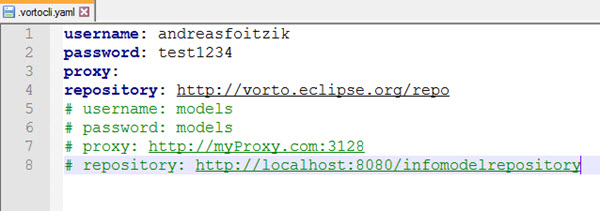
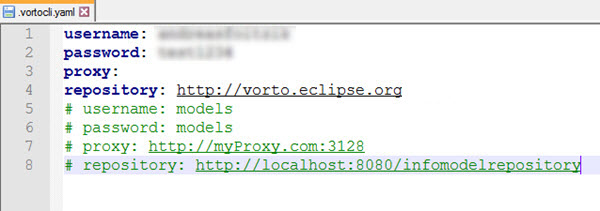
Vorto Features Overview. Fixes #315

Changed region(s): [[0.24, 0.1137, 0.48, 0.2844], [0.66, 0.3981, 0.75, 0.4834]]

diff --git a/website/documentation/overview/introduction.md b/website/documentation/overview/introduction.md
@@ -11,11 +11,11 @@ This section details the following topics:
 
 [Overview](#overview)
 
-[Features](#features)
+[Features](./features.html)
 
-[Significant Contribution](#significant-contribution)
+[Significant Contribution](./contribution.html)
 
-[System Requirements](#system-requirements)
+[System Requirements](./system-requirements.html)
 
 ## Overview
 
@@ -26,85 +26,3 @@ Standardization organizations and industry consortia work hard on device abstrac
 The Vorto project is an approach to leverage the standardization of so called Information Models. Information models are abstract representations of real world devices following a meta information model which is also part of the project. The meta information model shall be very flexible and easy to use. In addition, the project scope includes an eclipse based toolset that allows for creating information models, a repository for finding, managing and sharing information models, and last but not least a set of code generators that allow for the creation of information model based code artifacts to be employed in specific solutions.
 
 ![More about Vorto]({{base}}/img/documentation/vorto_eclipse_overview_L.png)
-
-
-## Features
-
-Vorto allows the user to create the following:
-
-**Datatypes**  
-Vorto provides a facility to create a new data type (Entity or Enum). You can use auto-completion and validation to update data types.
-
-**Function block model**  
-Vorto provides a facility to create a function block model project containing all necessary resources.
-
-**Information model**  
-Information models represent the capabilities of a particular type of device in its entirety. An information model contains one or more function blocks. Vorto allows to create an information model project and all required resources.
-
-**Mapping model**  
-Vorto provides a facility to create a mapping model from existing Datatype, Function block, or Information models.
-
-**Generate code**  
-Vorto provides a facility to create information model based code artifacts which you can use in specific solutions by choosing a suitable generator from the list of existing generators or allows the user to implement/create his own code generator
-
-**DSL editors**  
-The new Domain-specific Language (DSL) is a simple way to define and read datatype models, function block models and information models without the need to understand XML, XSD or even Java. On-the-fly auto-completion and validation lets you create the named models even faster than ever.
-
-* _Datatype model DSL editor:_
-
-![Datatype model DSL editor]({{base}}/img/documentation/m2m_tc_datatype_model_dsl_editor.png)
-
-* _Function block model DSL editor:_
-
-![Function block model DSL editor]({{base}}/img/documentation/m2m_tc_function_block_model_dsl_editor.png)
-
-* _Information model DSL editor:_
-
-![Information model DSL editor]({{base}}/img/documentation/m2m_tc_information_model_dsl_editor.png)
-
-* _Mapping model DSL editor:_
-
-Vorto provides Mapping DSL editor for user to create customized mapping that map a vorto model to another platform model.
-
-**Vorto perspective**  
-The Vorto perspective as a new Eclipse perspective simplifies the view and, thus, the work with the more abstract models.
-
-![Vorto Perspective]({{base}}/img/documentation/m2m_tc_vorto_perspective.png)
-
-
-**Example code generators**  
-Vorto provides several code generators, so that the user can generate code based on the select information model. Vorto also provides a code generator extension point, so that the user can create his own code generator.
-
-![Generating function block model]({{base}}/img/documentation/m2m_vorto_code_generator_menu.png)
-
-## Significant Contribution
-
-The Vorto project considers the following contributions as significant contribution:
-
-- Giving technical input to the Vorto Meta Information Model that leads to an update of the current ecore model.
-- Giving input to the project that leads to a high prioritized bug in [Github Issues](https://github.com/eclipse/vorto/issues).
-- Implementing and contributing a new Vorto code generator to the project.
-- Fixing a bug that is considered as critical.
-- Implementing a complex feature.
-
- If you satisfy our requirements for significant contribution, email your logo to <strong><mailto:vorto-dev@eclipse.org></strong> to get added to our homepage.
-
-## System Requirements
-
-For the use of the Vorto Toolset the following software requirements must be met:
-
-- Eclipse
-  - [Eclipse IDE for Java and DSL Developers](http://www.eclipse.org/downloads/packages/eclipse-ide-java-and-dsl-developers/mars2) (Mars or higher)  
-    or
-  - [Eclipse IDE](http://www.eclipse.org/downloads/packages/release/Mars/2) (Mars or higher)
-  - [Xtext](http://download.eclipse.org/modeling/tmf/xtext/updates/composite/releases/) 2.9.x (or higher)
-- [Java 8](http://www.oracle.com/technetwork/java/javase/downloads/)
-
-<table class="table table-bordered">
-<tbody>
-  <tr>
-    <td><i class="fa fa-info-circle info-note"></td>
-    <td>Validity period will endure at the most as long as the version of infrastructure software of third party manufacturers defined in this document (Operating Systems, Java, etc.) is publicly and officially supported. We support the most recent patch releases of the respective software product version.</td>
-  </tr>
- </tbody>
-</table>

diff --git a/website/documentation/vorto-repository/cli-tool/cli-tool.md b/website/documentation/vorto-repository/cli-tool/cli-tool.md
@@ -23,7 +23,7 @@ Vorto Command Line Interface (CLI) tool is REST-Client that allows you, to acces
 
 The CLI-Tool is based on a simple structure.
 
-It consists of a Command Line Interface as well as a **.yaml** file, that stores all necessary configuration properties like _Username_, _Password_, _Proxy_ and _Repository_.
+It consists of a Command Line Interface as well as a `.yaml` file, that stores all necessary configuration properties like _Username_, _Password_, _Proxy_ and _Repository_.
 
 ## Installation
 
@@ -33,15 +33,17 @@ A very convenient way to use the CLI Tool is, to add the path of the directory i
 
 ![Environment Variable]({{base}}/img/documentation/cli_evnmt_variable.jpg)
 
-Before you can use the CLI Tool as a REST Client, you need to initialize basic preferences. The preferences are stored in a `C:\Users\{$username}\.vortocli.yaml.file`, which is located in your home directory.
+Before you can use the CLI Tool as a REST Client, you need to initialize basic preferences. The preferences are stored in the file `.vortocli.yaml`, which is located in your home directory (in Windows, for example: `C:\Users\{$username}\`).
 
-You have to setup vorto via **vorto config**. If you want to initialize vorto with additional values (or change them afterwards) like _-username_, _-password_, _-proxy_ and _-repo_, then you can extend the **vorto config** command with four additional flag parameters _-username_, _-password_, _-proxy_ and _-repo_, or you can edit the _.vortocli.yaml_ file via text editor. 
+You have to setup vorto in one of the following ways:
 
-	vorto config -username andreas -password test1234 -repo http://vorto.eclipse.org/repo
+* Use the **vorto config** command.  
+  To initialize vorto with additional values (or change them afterwards) like username, password, proxy or repository, use the command flags `-username`, `-password`, `-proxy` or `-repo`.  
+  Example: `vorto config -username <username> -password <password> -repo http://vorto.eclipse.org`
+* Edit the `.vortocli.yaml` file with a text editor.  
+  ![CLI Yaml file]({{base}}/img/documentation/yamlfile.jpg)
 
 Congratulations! - Setup is done and you are now able to use the Vorto CLI Tool.
-
-![CLI Yaml file]({{base}}/img/documentation/yamlfile.jpg)
 
 
 ## CLI Commands

diff --git a/website/documentation/overview/system-requirements.md b/website/documentation/overview/system-requirements.md
@@ -1,0 +1,56 @@
+---
+layout: documentation
+title: System Requirements
+---
+
+{% include base.html %}
+
+
+## System Requirements
+
+For the use of the Vorto Toolset the following software requirements must be met:
+
+- Eclipse
+  - [Eclipse IDE for Java and DSL Developers](http://www.eclipse.org/downloads/packages/eclipse-ide-java-and-dsl-developers/mars2) (Mars or higher)  
+    or
+  - [Eclipse IDE](http://www.eclipse.org/downloads/packages/release/Mars/2) (Mars or higher)
+  - [Xtext](http://download.eclipse.org/modeling/tmf/xtext/updates/composite/releases/) 2.9.x (or higher)
+- [Java 8](http://www.oracle.com/technetwork/java/javase/downloads/)
+
+<table class="table table-bordered">
+<tbody>
+  <tr>
+    <td><i class="fa fa-info-circle info-note"></td>
+    <td>To avoid using a wrong Java version, you can set the required Java version as a preference in the <code>eclipse.ini</code> file:
+    <code><br />
+      -vmargs<br />
+      -Dosgi.requiredJavaVersion=1.8<br />
+      ...
+    </code></td>
+  </tr>
+ </tbody>
+</table>
+
+<table class="table table-bordered">
+<tbody>
+  <tr>
+    <td><i class="fa fa-info-circle info-note"></td>
+    <td>Your operating system, Java installation and Eclipse installation must <strong>all</strong> have either 32bit or 64bit architecture!<br />
+    If necessary, you can align the path to the correct Java version as a preference in the <code>eclipse.ini</code> file, e.g.:
+    <code><br />
+      -vm<br />
+      C:\Program Files\Java\jdk8\bin\javaw.exe<br />
+      ...
+    </code></td>
+  </tr>
+ </tbody>
+</table>
+
+<table class="table table-bordered">
+<tbody>
+  <tr>
+    <td><i class="fa fa-info-circle info-note"></td>
+    <td>Validity period will endure at the most as long as the version of infrastructure software of third party manufacturers defined in this document (Operating Systems, Java, etc.) is publicly and officially supported. We support the most recent patch releases of the respective software product version.</td>
+  </tr>
+ </tbody>
+</table>

diff --git a/website/documentation/overview/features.md b/website/documentation/overview/features.md
@@ -1,0 +1,21 @@
+---
+layout: documentation
+title: Features
+---
+
+{% include base.html %}
+
+## Features
+
+Vorto is characterized by the following features:
+
+* Describe device characteristics and services as Information Models with the Eclipse Vorto Toolset  
+  ![Vorto Features Models]({{base}}/img/documentation/vorto_features_models.png)
+* Share & Reuse Information Models via a centralized Vorto Repository  
+  ![Search page]({{base}}/img/documentation/vorto_repository_search.png)
+* Many Example Generators to translate Information Models into executable platform-specific code  
+  For example, LWM2M, AWS, ThingWorx, MQTT etc.  
+  ![Generators]({{base}}/img/documentation/vorto_repository_generators.png)
+* Developer API to plug-in other platform generators  
+* Command Line Interface Tool to access the Vorto Repository  
+  ![Vorto CLI Tool]({{base}}/img/documentation/vorto_features_cli_tool.png)

diff --git a/website/documentation/overview/contribution.md b/website/documentation/overview/contribution.md
@@ -1,0 +1,19 @@
+---
+layout: documentation
+title: Contribution
+---
+
+{% include base.html %}
+
+
+## Significant Contribution
+
+The Vorto project considers the following contributions as significant contribution:
+
+- Giving technical input to the Vorto Meta Information Model that leads to an update of the current ecore model.
+- Giving input to the project that leads to a high prioritized bug in [Github Issues](https://github.com/eclipse/vorto/issues).
+- Implementing and contributing a new Vorto code generator to the project.
+- Fixing a bug that is considered as critical.
+- Implementing a complex feature.
+
+If you satisfy our requirements for significant contribution, email your logo to <strong><mailto:vorto-dev@eclipse.org></strong> to get added to our homepage.
